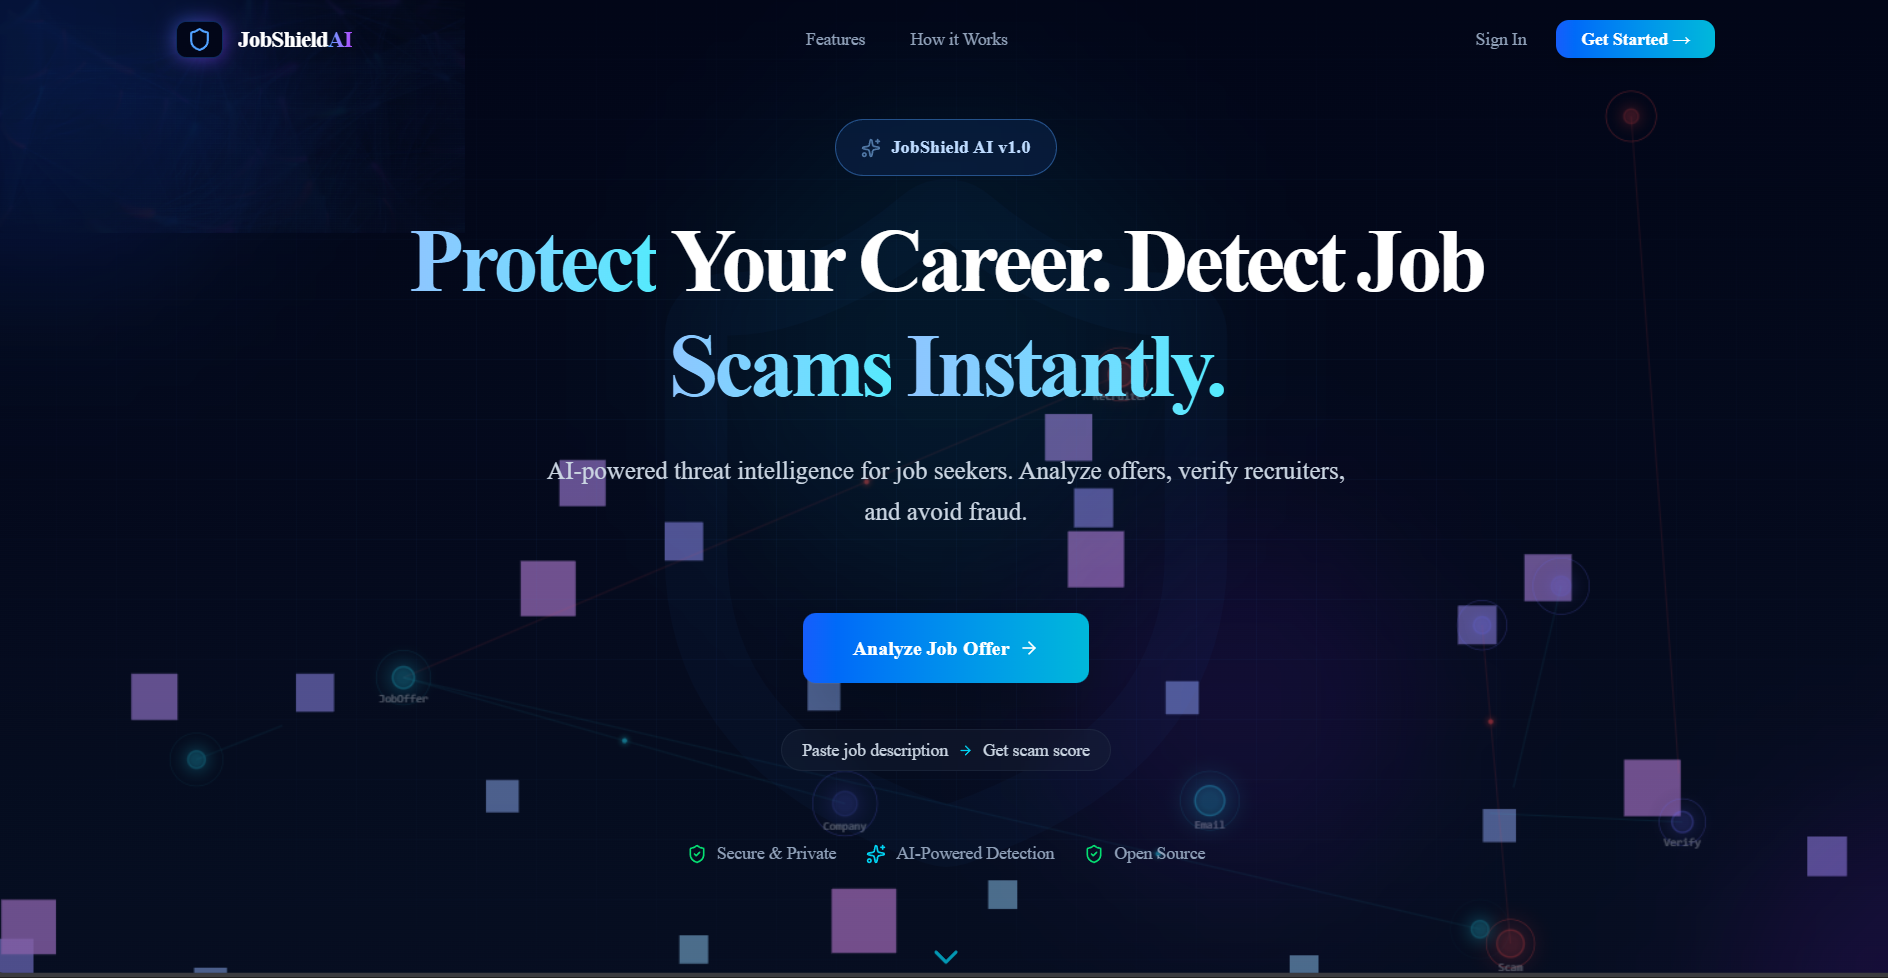
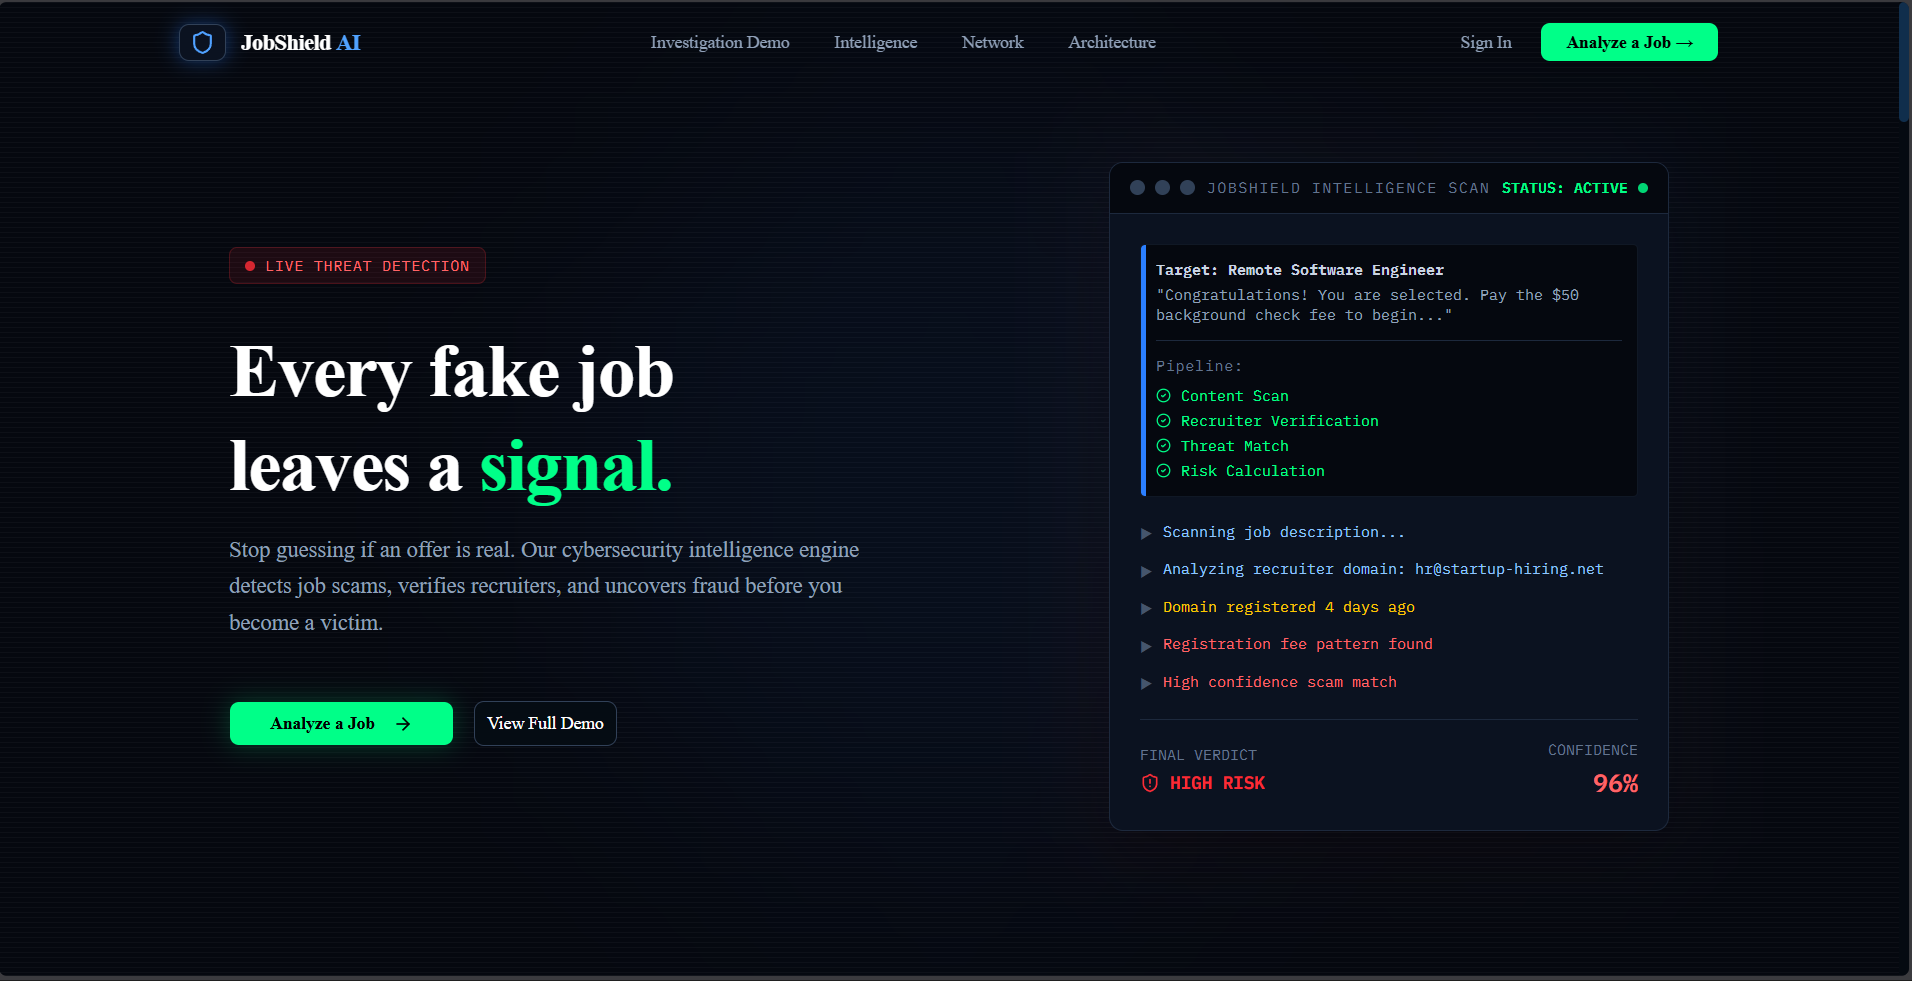
feat: add modular project display panels and homepage architecture for enhanced portfolio sectioning

diff --git a/pranav-portfolio/app/page.tsx b/pranav-portfolio/app/page.tsx
@@ -23,31 +23,41 @@ export default function Home() {
 
   return (
     <StackedSections>
-      {/* SECTION 1: Identity & Approach */}
-      <HeroPanel />
-      <WhatIBuildPanel />
-      <HowIBuildPanel />
+      {/* MACRO 1: Identity & Approach */}
+      <div>
+        <HeroPanel />
+        <WhatIBuildPanel />
+        <HowIBuildPanel />
+      </div>
       
-      {/* SECTION 2: Selected Work */}
-      <WorkIntroPanel />
-      {mainProjects.map((project, index) => (
-        <ProjectPanel key={project.id} project={project} index={index} />
-      ))}
-      <ComingSoonProjectsPanel projects={comingSoonProjects} />
+      {/* MACRO 2: Selected Work */}
+      <div>
+        <WorkIntroPanel />
+        {mainProjects.map((project, index) => (
+          <ProjectPanel key={project.id} project={project} index={index} />
+        ))}
+        <ComingSoonProjectsPanel projects={comingSoonProjects} />
+      </div>
       
-      {/* SECTION 3: System Architecture */}
-      <ArchIntroPanel />
-      <SystemFlowPanel />
-      <ReliabilityPanel />
+      {/* MACRO 3: System Architecture */}
+      <div>
+        <ArchIntroPanel />
+        <SystemFlowPanel />
+        <ReliabilityPanel />
+      </div>
       
-      {/* SECTION 4: Engineering Insights */}
-      <DecisionsPanel />
-      <LessonsPanel />
+      {/* MACRO 4: Engineering Insights */}
+      <div>
+        <DecisionsPanel />
+        <LessonsPanel />
+      </div>
       
-      {/* SECTION 5: About & Experience & Contact */}
-      <AboutSection />
-      <ExperiencePanel />
-      <ContactPanel />
+      {/* MACRO 5: About & Experience & Contact */}
+      <div>
+        <AboutSection />
+        <ExperiencePanel />
+        <ContactPanel />
+      </div>
     </StackedSections>
   );
 }

diff --git a/pranav-portfolio/components/home/panels/ReliabilityPanel.tsx b/pranav-portfolio/components/home/panels/ReliabilityPanel.tsx
@@ -11,7 +11,7 @@ export function ReliabilityPanel() {
   if (!diagram) return null;
 
   return (
-    <section className="py-24 bg-bg min-h-screen flex items-center border-t border-border">
+    <section className="py-24 bg-bg flex items-center border-t border-border">
       <Container wide>
         <div className="flex flex-col lg:flex-row-reverse gap-8 lg:gap-16 items-center">
           

diff --git a/pranav-portfolio/components/home/panels/ExperiencePanel.tsx b/pranav-portfolio/components/home/panels/ExperiencePanel.tsx
@@ -15,7 +15,7 @@ const typeIcons = {
 
 export function ExperiencePanel() {
   return (
-    <section id="experience" className="py-24 bg-surface border-t border-border min-h-screen flex items-center">
+    <section id="experience" className="py-24 bg-surface border-t border-border flex items-center">
       <Container narrow>
         <AnimateOnScroll>
           <SectionHeading 

diff --git a/pranav-portfolio/components/home/panels/DecisionsPanel.tsx b/pranav-portfolio/components/home/panels/DecisionsPanel.tsx
@@ -22,7 +22,7 @@ export function DecisionsPanel() {
   ];
 
   return (
-    <section id="build-decisions" className="py-24 bg-surface border-y border-border min-h-screen flex items-center">
+    <section id="build-decisions" className="py-24 bg-surface border-y border-border flex items-center">
       <Container>
         <AnimateOnScroll>
           <SectionHeading

diff --git a/pranav-portfolio/components/home/panels/WhatIBuildPanel.tsx b/pranav-portfolio/components/home/panels/WhatIBuildPanel.tsx
@@ -31,7 +31,7 @@ export function WhatIBuildPanel() {
   ];
 
   return (
-    <section id="what-i-build" className="py-32 md:py-40 bg-surface min-h-screen flex flex-col justify-center">
+    <section id="what-i-build" className="py-32 md:py-40 bg-surface flex flex-col justify-center">
       <Container>
         <AnimateOnScroll>
           <SectionHeading

diff --git a/pranav-portfolio/components/home/panels/HowIBuildPanel.tsx b/pranav-portfolio/components/home/panels/HowIBuildPanel.tsx
@@ -31,7 +31,7 @@ export function HowIBuildPanel() {
   ];
 
   return (
-    <section id="how-i-build" className="py-24 bg-bg border-t border-border min-h-screen flex items-center">
+    <section id="how-i-build" className="py-24 bg-bg border-t border-border flex items-center">
       <Container>
         <AnimateOnScroll>
           <SectionHeading

diff --git a/pranav-portfolio/components/home/panels/SystemFlowPanel.tsx b/pranav-portfolio/components/home/panels/SystemFlowPanel.tsx
@@ -11,7 +11,7 @@ export function SystemFlowPanel() {
   if (!diagram) return null;
 
   return (
-    <section className="py-24 bg-surface min-h-screen flex items-center">
+    <section className="py-24 bg-surface flex items-center">
       <Container wide>
         <div className="flex flex-col lg:flex-row gap-8 lg:gap-16 items-center">
           

diff --git a/pranav-portfolio/components/home/panels/LessonsPanel.tsx b/pranav-portfolio/components/home/panels/LessonsPanel.tsx
@@ -22,7 +22,7 @@ export function LessonsPanel() {
   ];
 
   return (
-    <section className="py-24 bg-bg min-h-screen flex items-center">
+    <section className="py-24 bg-bg flex items-center">
       <Container>
         <AnimateOnScroll>
           <SectionHeading
